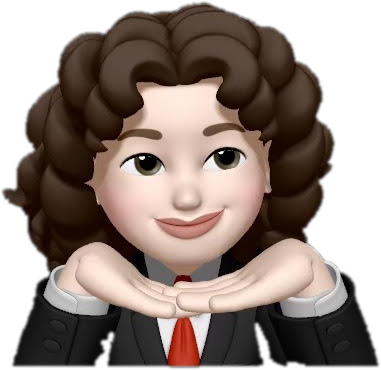
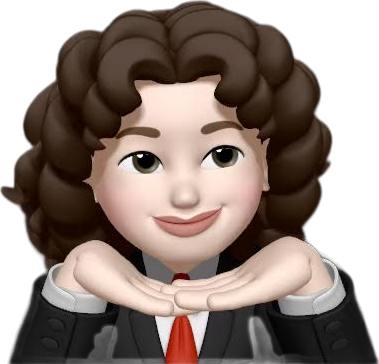
Recorte del memoji con IA y bordes limpios
Claude-Session: https://claude.ai/code/session_012gZcx71BmCNMhoCCkeSb98

diff --git a/index.html b/index.html
@@ -77,7 +77,7 @@ footer{margin-top:28px;text-align:center;color:var(--muted);font-size:13.5px}
   </div>
 
   <header>
-    <div class="memoji"><img src="memoji.png" width="381" height="372" alt="Memoji de Nadia" data-i18n-alt="alt"></div>
+    <div class="memoji"><img src="memoji.png" width="379" height="364" alt="Memoji de Nadia" data-i18n-alt="alt"></div>
     <h1>Nadia Lagoa Vilela</h1>
     <p class="role" data-i18n="role">Desarrolladora de software · 2.º DAM · A Coruña</p>
     <ul class="flags" aria-label="Idiomas: español, gallego, inglés, alemán, francés; aprendiendo sueco" data-i18n-aria="langs">
